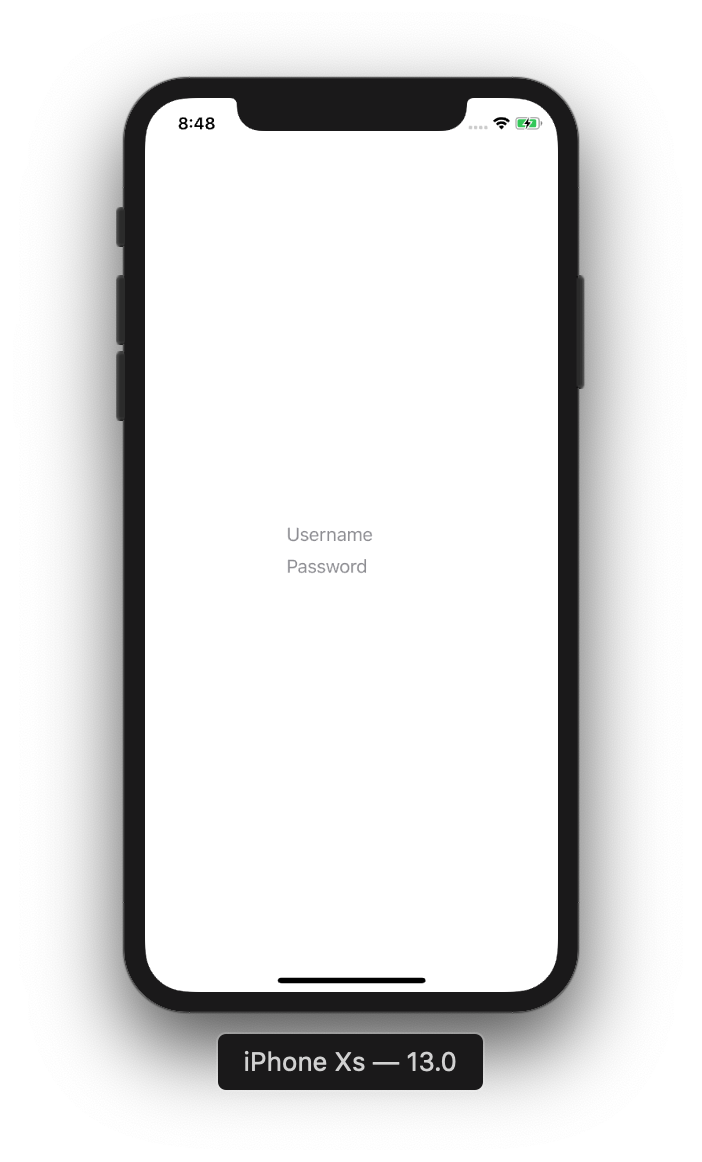
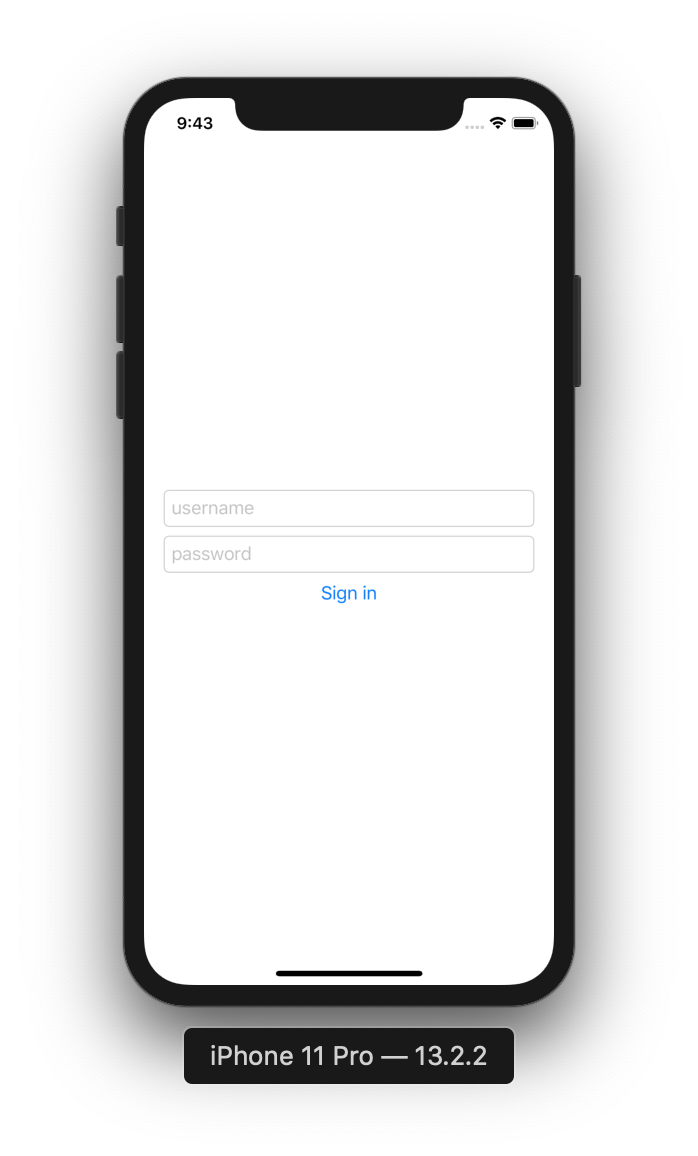
Update the readme with a test session and update the sign in screenshot (#13)

diff --git a/README.md b/README.md
@@ -3,3 +3,11 @@
 <img width=300 src="readme-assets/sim_1.png">
 
 <img width=300 src="readme-assets/sim_2.png">
+
+## Test
+
+`cmd+U` executes all available test suites.
+
+For the Xcode UITests it comes handy to prepare the keyboard in advance so that the monkey can type properly:
+
+`defaults write com.apple.iphonesimulator ConnectHardwareKeyboard 0`
